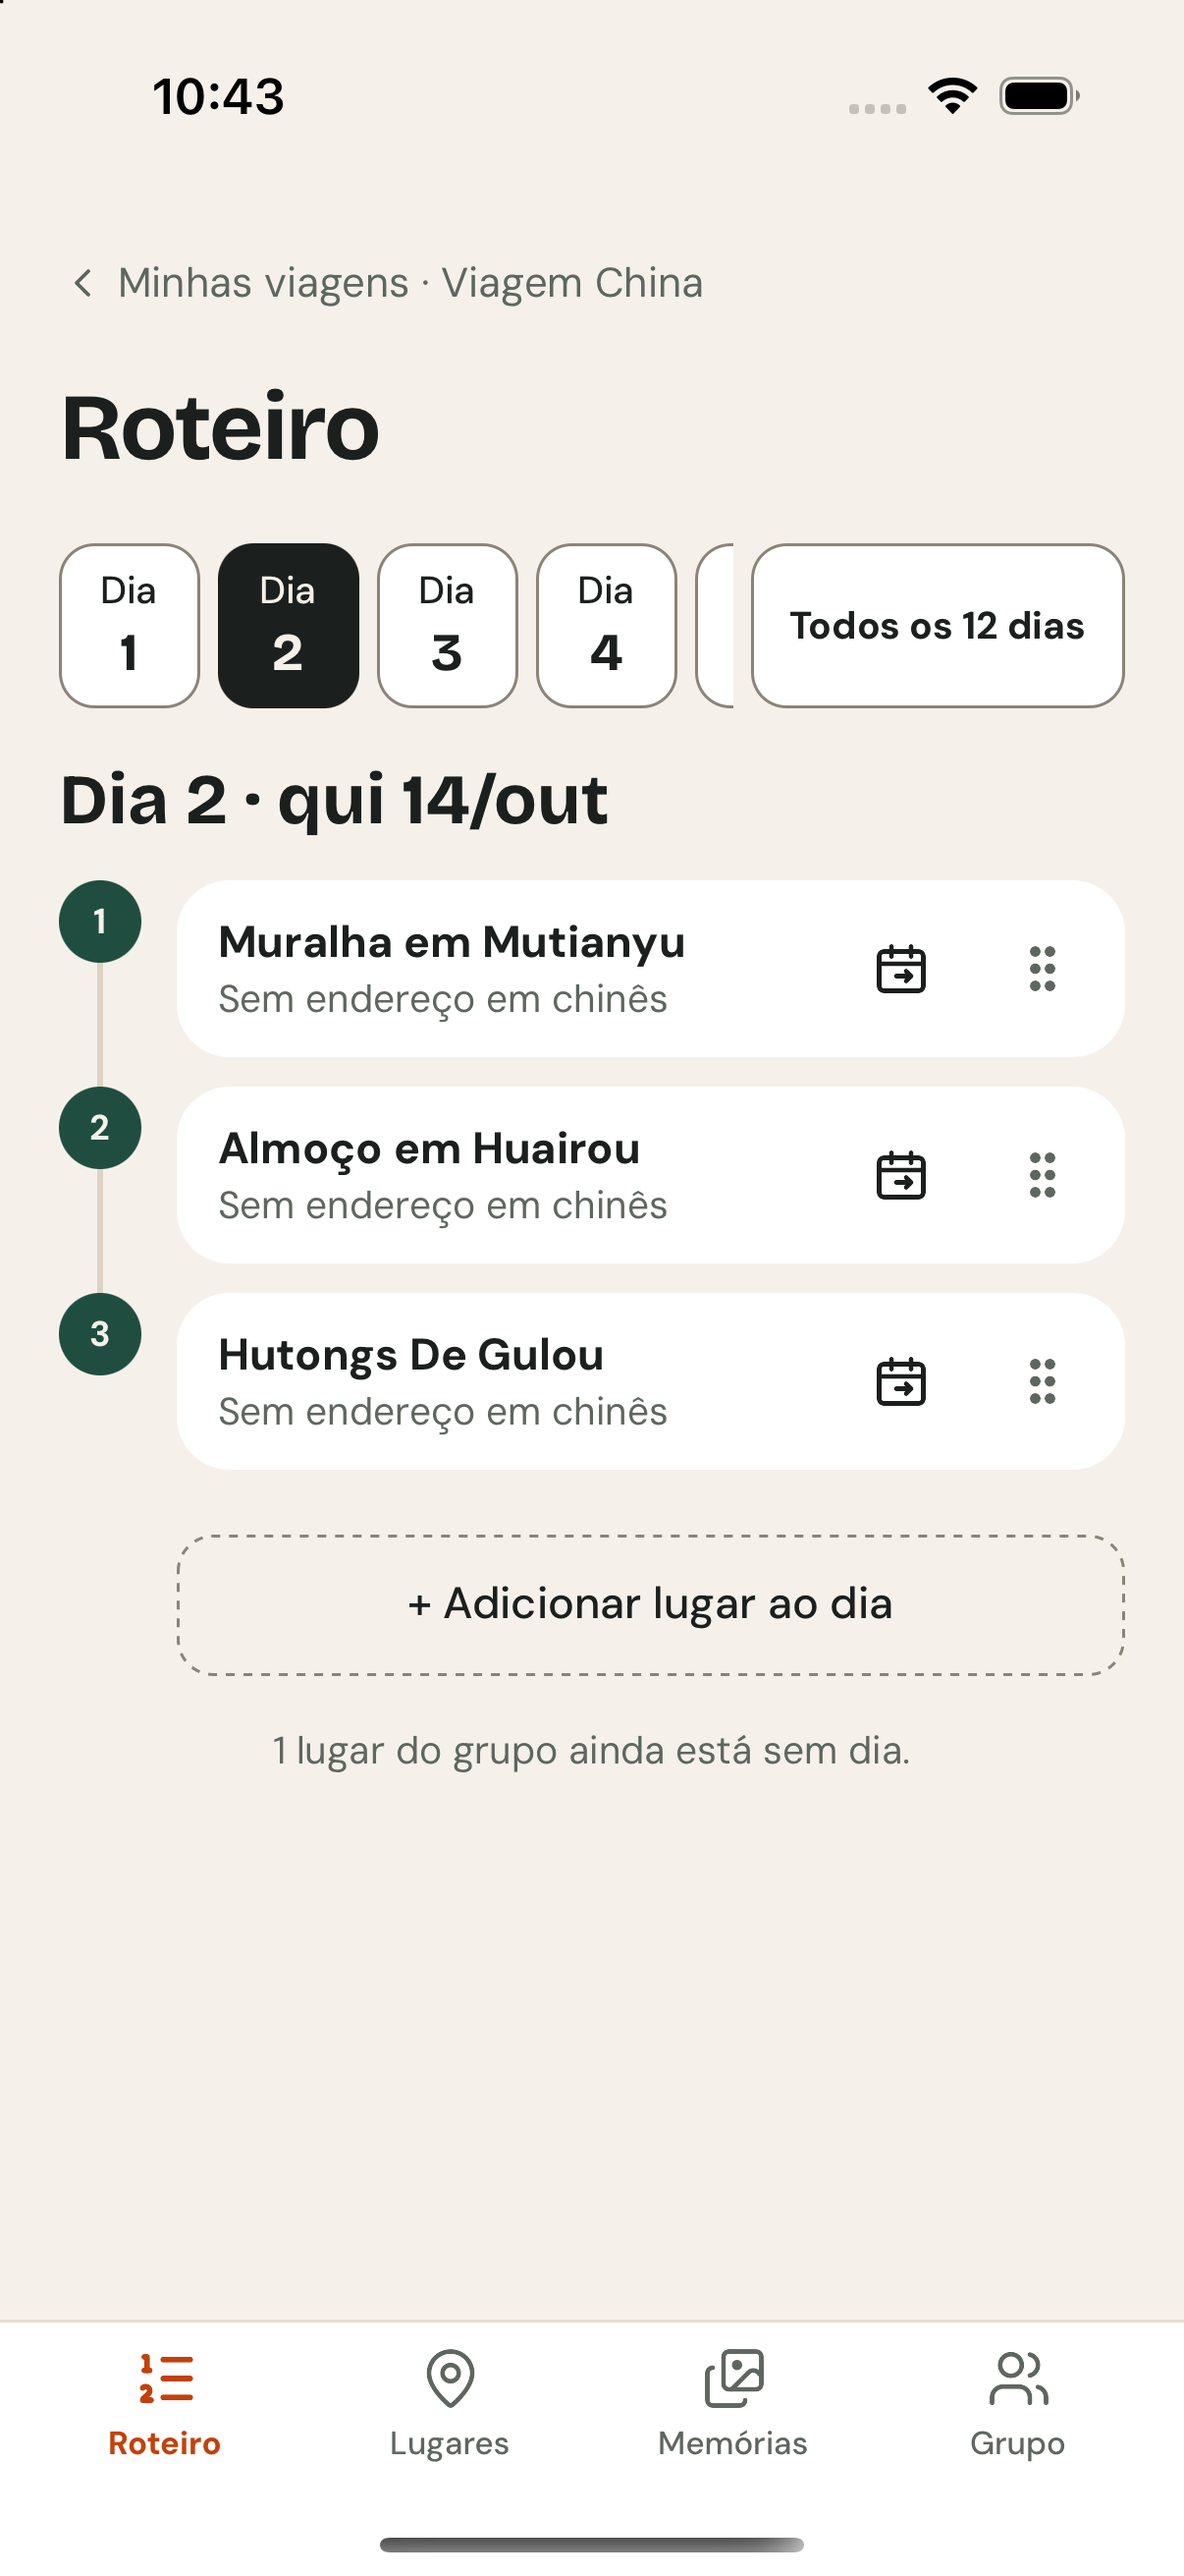
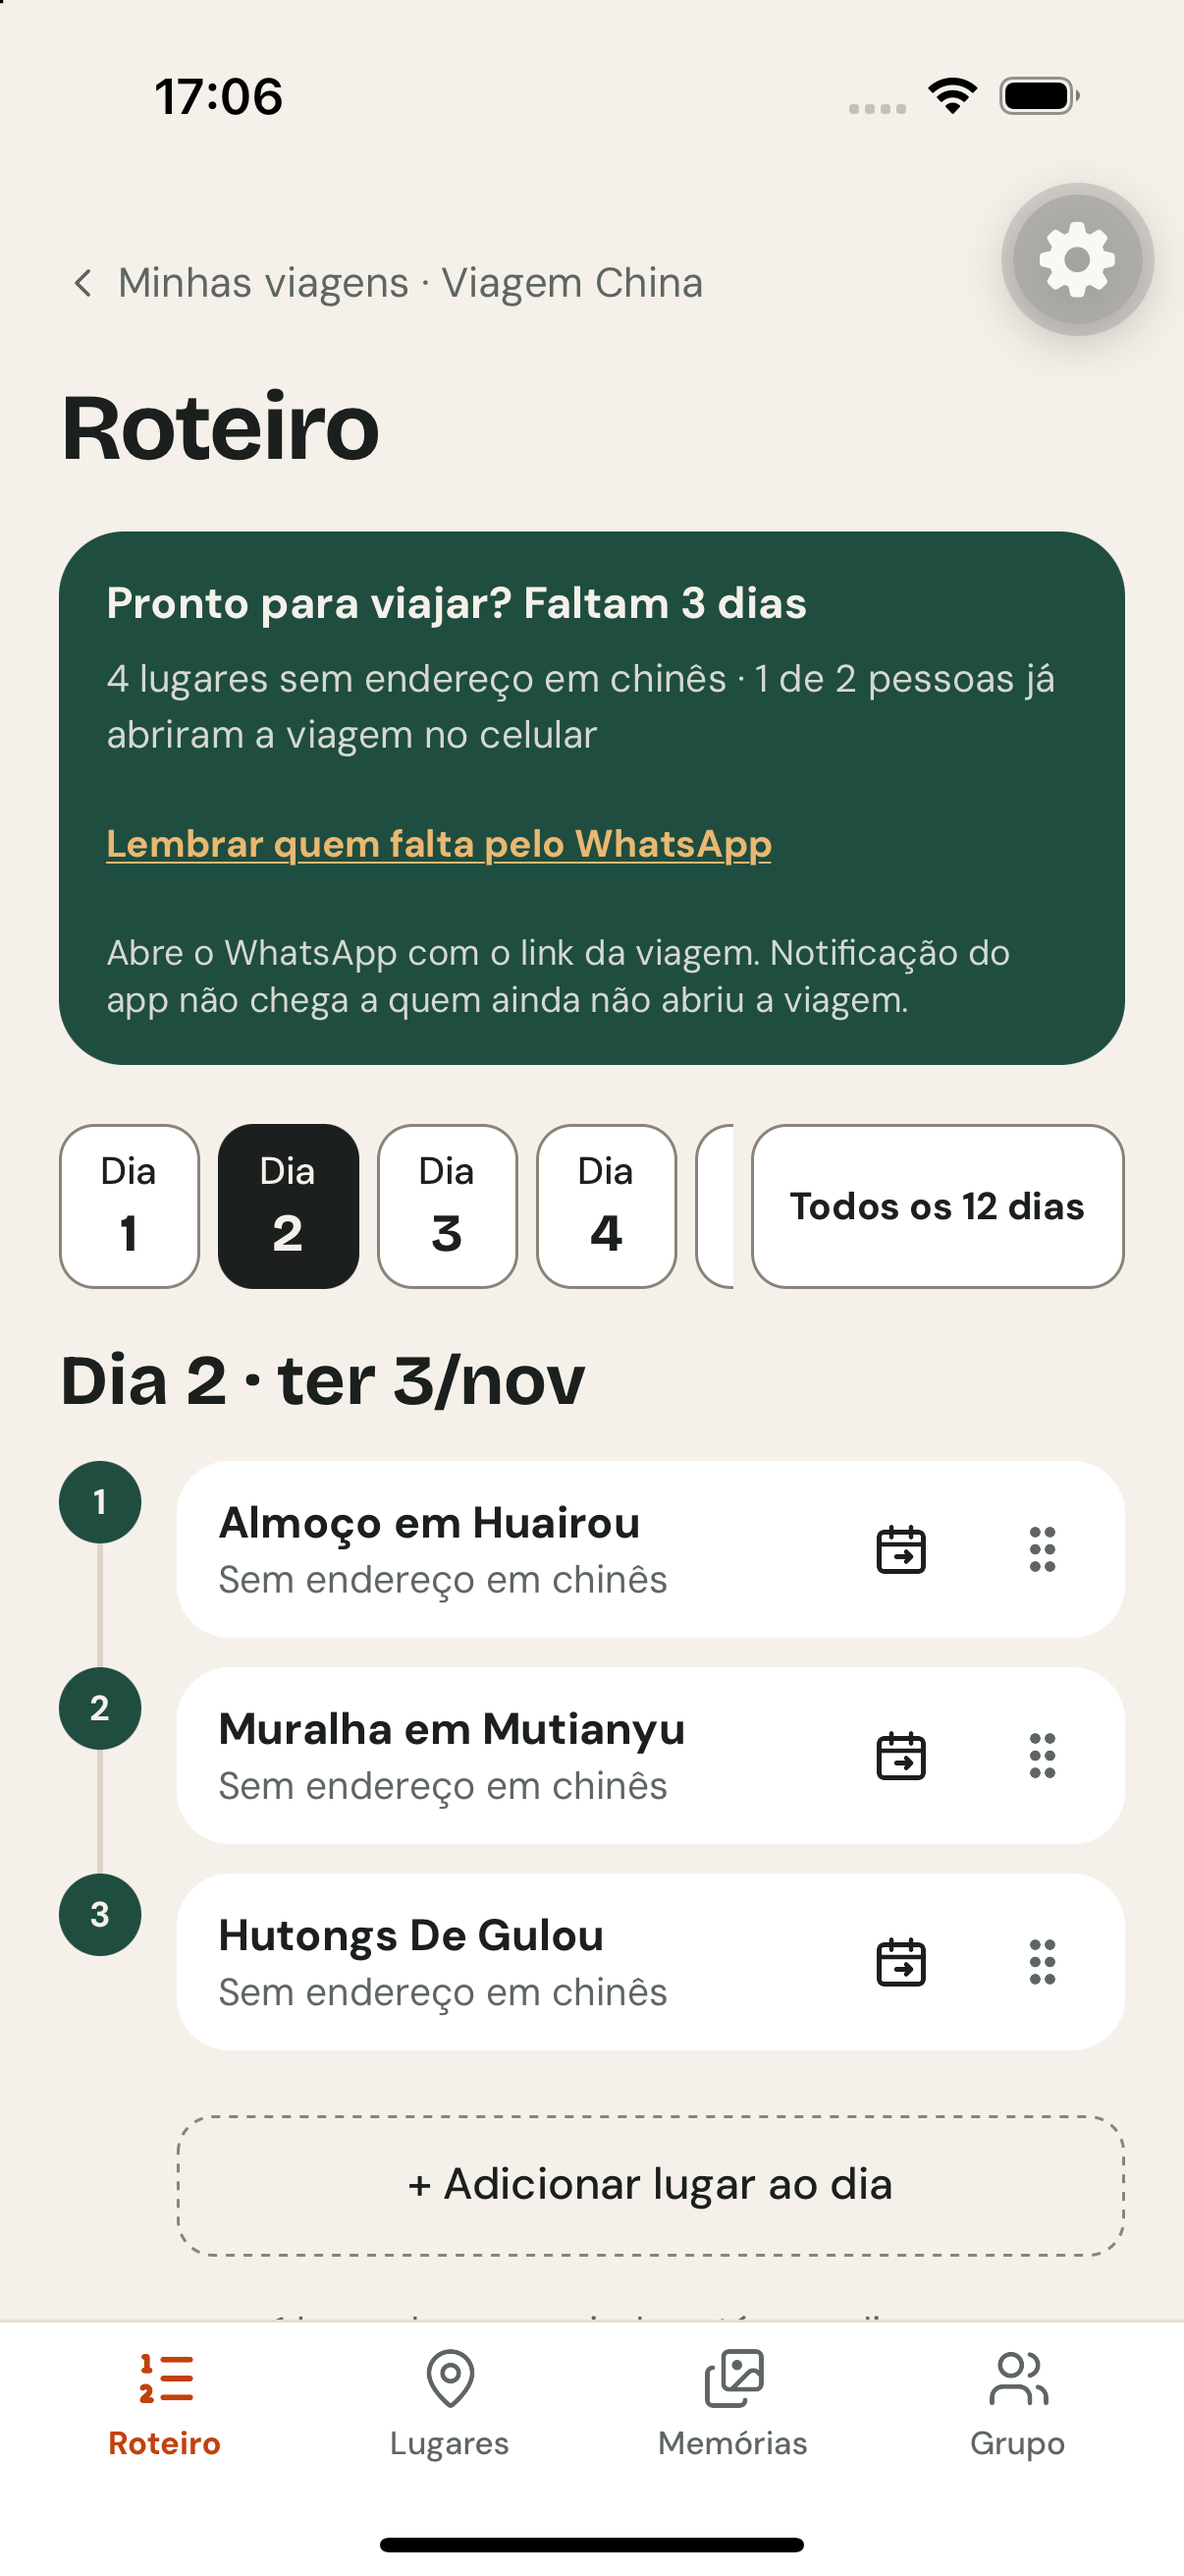
Cartão Pronto para viajar no Roteiro conforme a referência, com dias que faltam (#88)

diff --git a/apps/mobile/src/features/trips/ready-to-travel-card.tsx b/apps/mobile/src/features/trips/ready-to-travel-card.tsx
@@ -1,15 +1,10 @@
 import { useCallback, useEffect, useMemo, useState } from 'react'
-import { Platform, Share, View } from 'react-native'
+import { Share } from 'react-native'
 
 import { readyToTravel } from '@trippy/domain'
 import type { LiveMember, LivePlace } from '@trippy/sync'
-import { Button, Card, Notice } from '../../components'
-import {
-  createTypographyTokens,
-  normalizeFontPlatform,
-  TypographyText,
-  useTheme,
-} from '../../design-system'
+import { useTheme } from '../../design-system'
+import { HighlightCard, Text, TextLink } from '../../design-system/components'
 import { createInviteClient, getInviteErrorMessage } from '../invites/invite-client'
 import { getApiBaseUrl } from '../diagnostics/health-client'
 import { useSession } from '../auth/session-provider'
@@ -17,7 +12,6 @@ import { useSync } from '../sync/sync-provider'
 import type { TripSummary } from './trips-client'
 
 /** TestIDs Maestro: pronto-viajar-card, pronto-viajar-avisar. */
-const typography = createTypographyTokens(normalizeFontPlatform(Platform.OS))
 
 type ReadyToTravelCardProps = {
   tripId: string
@@ -71,6 +65,7 @@ export function ReadyToTravelCard({ tripId, tripName, trip }: ReadyToTravelCardP
   })
 
   const avisar = useCallback(async () => {
+    if (isInviting) return
     setInviteError(null)
     setIsInviting(true)
     try {
@@ -84,54 +79,78 @@ export function ReadyToTravelCard({ tripId, tripName, trip }: ReadyToTravelCardP
     } finally {
       setIsInviting(false)
     }
-  }, [inviteClient, tripId, tripName])
+  }, [inviteClient, isInviting, tripId, tripName])
 
   if (!summary.visible) return null
 
   const membersNotOpened = summary.membersNotOpened.length
+  const days = summary.daysUntilStart
+  const title =
+    days === 0
+      ? 'Pronto para viajar? A viagem começa hoje'
+      : days === 1
+        ? 'Pronto para viajar? Falta 1 dia'
+        : `Pronto para viajar? Faltam ${days} dias`
+  const language = summary.recommendRegisterBeforeBoarding ? 'em chinês' : 'no idioma local'
+  const details = [
+    summary.placesWithoutLocalAddress > 0
+      ? `${summary.placesWithoutLocalAddress} ${
+          summary.placesWithoutLocalAddress === 1 ? 'lugar sem endereço' : 'lugares sem endereço'
+        } ${language}`
+      : null,
+    `${summary.membersOpened} de ${summary.membersTotal} pessoas já abriram a viagem no celular`,
+  ]
+    .filter((part) => part !== null)
+    .join(' · ')
 
   return (
-    <Card testID="pronto-viajar-card">
-      <View style={{ gap: theme.spacing.space3 }}>
-        <TypographyText family="display" style={[typography.titleM, { color: theme.colors.ink }]}>
-          Pronto para viajar
-        </TypographyText>
-
-        {summary.placesWithoutLocalAddress > 0 ? (
-          <TypographyText family="sans" style={{ color: theme.colors.ink }}>
-            {summary.placesWithoutLocalAddress === 1
-              ? '1 lugar sem endereço no idioma local'
-              : `${summary.placesWithoutLocalAddress} lugares sem endereço no idioma local`}
-          </TypographyText>
-        ) : null}
-
-        {summary.recommendRegisterBeforeBoarding ? (
-          <Notice
-            testID="pronto-viajar-china"
-            tone="warning"
-            message="Cadastre os endereços locais antes de embarcar: na China o mapa e a busca podem falhar."
-          />
-        ) : null}
-
-        <TypographyText family="sans" style={{ color: theme.colors.inkMuted }}>
-          {`${summary.membersOpened} de ${summary.membersTotal} pessoas já abriram a viagem`}
-        </TypographyText>
-
-        {membersNotOpened > 0 ? (
-          <Button
-            label="Avisar"
-            variant="secondary"
-            loading={isInviting}
-            disabled={isInviting}
+    <HighlightCard
+      testID="pronto-viajar-card"
+      style={{
+        borderRadius: theme.radius.radiusLg,
+        gap: 6,
+        paddingHorizontal: 16,
+        paddingVertical: 14,
+      }}
+    >
+      <Text variant="placeName" color={theme.colors.onForest} accessibilityRole="header">
+        {title}
+      </Text>
+      <Text
+        variant="notice"
+        color={theme.colors.onForest}
+        style={{ lineHeight: 19, opacity: 0.85 }}
+      >
+        {details}
+      </Text>
+      {membersNotOpened > 0 ? (
+        <>
+          <TextLink
+            label="Lembrar quem falta pelo WhatsApp"
+            tone="onHighlight"
             onPress={() => void avisar()}
             testID="pronto-viajar-avisar"
           />
-        ) : null}
-
-        {inviteError ? (
-          <Notice testID="pronto-viajar-erro" tone="danger" message={inviteError} />
-        ) : null}
-      </View>
-    </Card>
+          <Text
+            variant="notice"
+            color={theme.colors.onForest}
+            style={{ fontSize: 12, lineHeight: 16, opacity: 0.85 }}
+          >
+            Abre o WhatsApp com o link da viagem. Notificação do app não chega a quem ainda não
+            abriu a viagem.
+          </Text>
+        </>
+      ) : null}
+      {inviteError ? (
+        <Text
+          testID="pronto-viajar-erro"
+          variant="notice"
+          color={theme.colors.mustard}
+          accessibilityRole="alert"
+        >
+          {inviteError}
+        </Text>
+      ) : null}
+    </HighlightCard>
   )
 }

diff --git a/apps/mobile/src/features/trips/__tests__/ready-to-travel-card.test.tsx b/apps/mobile/src/features/trips/__tests__/ready-to-travel-card.test.tsx
@@ -138,15 +138,14 @@ describe('card Pronto para viajar', () => {
   it('mostra pendências de endereço, recomendação para China e aberturas', async () => {
     const screen = await renderCard(createClient())
 
-    expect(await screen.findByTestId('pronto-viajar-card')).toHaveTextContent(/Pronto para viajar/u)
-    expect(screen.getByTestId('pronto-viajar-card')).toHaveTextContent(
-      /1 lugar sem endereço no idioma local/u,
+    expect(await screen.findByTestId('pronto-viajar-card')).toHaveTextContent(
+      /Pronto para viajar\? Faltam 6 dias/u,
     )
     expect(screen.getByTestId('pronto-viajar-card')).toHaveTextContent(
-      /Cadastre os endereços locais antes de embarcar: na China o mapa e a busca podem falhar./u,
+      /1 lugar sem endereço em chinês · 1 de 2 pessoas já abriram a viagem no celular/u,
     )
     expect(screen.getByTestId('pronto-viajar-card')).toHaveTextContent(
-      /1 de 2 pessoas já abriram a viagem/u,
+      /Lembrar quem falta pelo WhatsApp/u,
     )
     expect(screen.getByTestId('pronto-viajar-avisar')).toBeOnTheScreen()
   })

diff --git a/apps/mobile/src/design-system/components/text-link.tsx b/apps/mobile/src/design-system/components/text-link.tsx
@@ -9,6 +9,8 @@ export type TextLinkProps = {
   accessibilityLabel?: string
   /** Texto sem a altura de 44px (dentro de um card); o alvo de toque continua com `hitSlop`. */
   compact?: boolean
+  /** `onHighlight`: mostarda sobre o card de destaque (forest). */
+  tone?: 'default' | 'onHighlight'
   testID?: string
 }
 
@@ -18,6 +20,7 @@ export function TextLink({
   onPress,
   accessibilityLabel,
   compact = false,
+  tone = 'default',
   testID,
 }: TextLinkProps) {
   const { colors, spacing } = useTheme()
@@ -33,7 +36,7 @@ export function TextLink({
     >
       <Text
         variant="count"
-        color={colors.terracottaText}
+        color={tone === 'onHighlight' ? colors.mustard : colors.terracottaText}
         style={{ textDecorationLine: 'underline' }}
       >
         {label}

diff --git a/packages/domain/src/trips.ts b/packages/domain/src/trips.ts
@@ -145,6 +145,8 @@ export interface ReadyToTravelSummary {
   membersOpened: number
   membersTotal: number
   membersNotOpened: string[]
+  /** Dias civis até o início da viagem (negativo depois que começou). */
+  daysUntilStart: number
 }
 
 function localDateInTimezone(timezone: string, now: Date): string {
@@ -198,5 +200,6 @@ export function readyToTravel(input: ReadyToTravelInput): ReadyToTravelSummary {
     membersOpened,
     membersTotal,
     membersNotOpened,
+    daysUntilStart,
   }
 }

diff --git a/packages/domain/src/trips.test.ts b/packages/domain/src/trips.test.ts
@@ -115,6 +115,7 @@ it('aparece na janela de 7 dias antes do início quando há pendência', () => {
     membersOpened: 1,
     membersTotal: 2,
     membersNotOpened: ['bruno'],
+    daysUntilStart: 7,
   })
 })
 
